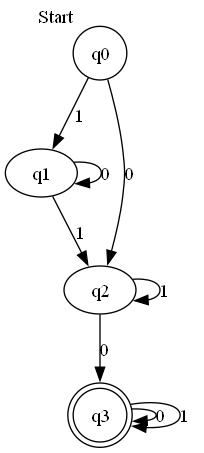
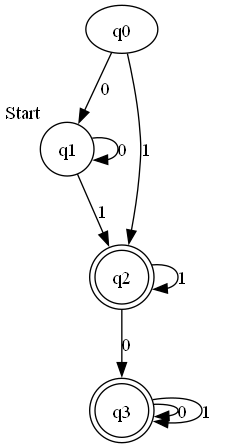
p

diff --git a/static/js/edit_nfa.js b/static/js/edit_nfa.js
@@ -1,0 +1,59 @@
+// Ambil nilai variabel dari nfa.js
+import { nfa as originalNfa, startStateNFA as originalStartStates, acceptingStatesNFA as originalAcceptingStates } from '../js/no5/nfa.js';
+
+async function fetchNfaValues() {
+    try {
+        // Gunakan nilai yang diimpor dari nfa.js
+        const nfa = originalNfa;
+        const startStateNFA = originalStartStates;
+        const acceptingStatesNFA = originalAcceptingStates;
+
+        // Set nilai variabel ke dalam elemen input
+        document.getElementById('nfa').value = JSON.stringify(nfa);
+        document.getElementById('startStates').value = JSON.stringify(startStateNFA);
+        document.getElementById('acceptingStates').value = JSON.stringify(acceptingStatesNFA);
+    } catch (error) {
+        console.error('Terjadi kesalahan:', error);
+    }
+}
+
+document.addEventListener('DOMContentLoaded', () => {
+    // Panggil fungsi fetchNfaValues saat DOM telah dimuat
+    fetchNfaValues();
+
+    // Tangani peristiwa klik pada tombol "Simpan"
+    document.getElementById('saveButton').addEventListener('click', () => {
+        // Mengambil nilai dari inputan pengguna
+        const nfaInput = JSON.parse(document.getElementById('nfa').value);
+        const startStatesInput = JSON.parse(document.getElementById('startStates').value);
+        const acceptingStatesInput = JSON.parse(document.getElementById('acceptingStates').value);
+
+        // Simpan inputan pengguna ke dalam variabel yang sesuai di dalam file nfa.js
+        //updateNfaValues(nfaInput, startStatesInput, acceptingStatesInput);
+    });
+});
+
+async function updateNfaValues(nfaInput, startStatesInput, acceptingStatesInput) {
+    try {
+        // Mengirim data ke server
+        const response = await fetch('/update_nfa', {
+            method: 'POST',
+            headers: {
+                'Content-Type': 'application/json'
+            },
+            body: JSON.stringify({ nfa: nfaInput, startStates: startStatesInput, acceptingStates: acceptingStatesInput })
+        });
+
+        if (response.ok) {
+            // Berhasil
+            console.log('Nilai NFA berhasil diperbarui di server.');
+            // Mengarahkan kembali ke halaman index.html setelah menyimpan
+            window.location.href = 'index.html'; // Ganti dengan nama file index.html yang sesuai
+        } else {
+            // Gagal
+            console.error('Gagal memperbarui nilai NFA di server.');
+        }
+    } catch (error) {
+        console.error('Terjadi kesalahan:', error);
+    }
+}

diff --git a/static/js/script.js b/static/js/script.js
@@ -159,13 +159,63 @@ buttons.forEach(button => {
   });
 });
 
-// Ambil tombol "Edit" dengan menggunakan ID atau kelas yang sesuai
-const editButton = document.querySelector('.editButton');
+// Sembunyikan tombol "Edit" secara default
+const editButton1 = document.querySelector('.editButton1');
+const editButton2 = document.querySelector('.editButton2');
+const editButton3 = document.querySelector('.editButton3');
+const editButton4 = document.querySelector('.editButton4');
+
+editButton1.style.display = 'none';
+editButton2.style.display = 'none';
+editButton3.style.display = 'none';
+editButton4.style.display = 'none';
+
+// Tambahkan event listener ke tombol "DFA"
+document.getElementById('dfaBtn').addEventListener('click', function() {
+  // Menampilkan tombol "Edit" ketika tombol "DFA" diklik
+  editButton1.style.display = 'block';
+  editButton2.style.display = 'none';
+  editButton3.style.display = 'none';
+  editButton4.style.display = 'none';
+
+});
+
+// Tambahkan event listener ke tombol "NFA"
+document.getElementById('nfaBtn').addEventListener('click', function() {
+  // Menyembunyikan tombol "Edit" ketika tombol "NFA" diklik
+  editButton1.style.display = 'none';
+  editButton2.style.display = 'block';
+  editButton3.style.display = 'none';
+  editButton4.style.display = 'none';
+});
+
+// Tambahkan event listener ke tombol "e-NFA"
+document.getElementById('enfaBtn').addEventListener('click', function() {
+  // Menyembunyikan tombol "Edit" ketika tombol "e-NFA" diklik
+  editButton1.style.display = 'none';
+  editButton2.style.display = 'none';
+  editButton3.style.display = 'block';
+  editButton4.style.display = 'none';
+});
+
+// Tambahkan event listener ke tombol "Regex"
+document.getElementById('regexBtn').addEventListener('click', function() {
+  // Menyembunyikan tombol "Edit" ketika tombol "Regex" diklik
+  editButton1.style.display = 'none';
+  editButton2.style.display = 'none';
+  editButton3.style.display = 'none';
+  editButton4.style.display = 'block';
+});
 
 // Tambahkan event listener untuk menangkap klik pada tombol "Edit"
-editButton.addEventListener('click', () => {
+editButton1.addEventListener('click', () => {
   // Pindahkan halaman ke laman edit DFA
   window.location.href = 'edit_dfa'; // Ganti dengan URL laman edit DFA yang sesuai
+});
+
+editButton2.addEventListener('click', () => {
+  // Pindahkan halaman ke laman edit DFA
+  window.location.href = 'edit_nfa'; // Ganti dengan URL laman edit DFA yang sesuai
 });
 
 

diff --git a/templates/edit_nfa.html b/templates/edit_nfa.html
@@ -1,0 +1,25 @@
+<!DOCTYPE html>
+<html lang="en">
+<head>
+  <meta charset="UTF-8">
+  <meta name="viewport" content="width=device-width, initial-scale=1.0">
+  <title>Edit NFA</title>
+</head>
+<body>
+  <h1>Edit NFA</h1>
+  <form action="/update_nfa" id="editNfaForm" method="post">
+    <label for="transitions">Transitions:</label><br>
+    <!-- Menampilkan nilai variabel nfa -->
+    <input type="text" id="nfa" name="nfa"><br>
+    <label for="startStates">Start States:</label><br>
+    <!-- Menampilkan nilai variabel startStates -->
+    <input type="text" id="startStates" name="startStates"><br>
+    <label for="acceptingStates">Accepting States:</label><br>
+    <!-- Menampilkan nilai variabel acceptingStates -->
+    <input type="text" id="acceptingStates" name="acceptingStates"><br><br>
+    <button type="submit" id="saveButton">Save</button>
+  </form>
+
+  <script src="../static/js/edit_nfa.js" type="module"></script>
+</body>
+</html>

diff --git a/templates/index.html b/templates/index.html
@@ -34,10 +34,12 @@
       <img id="nfaImage" class="image" src="../static/img/nfa.png" alt="NFA Image">
       <img id="enfaImage" class="image" src="../static/img/enfa.png" alt="e-NFA Image">
       <img id="regexImage" class="image" src="../static/img/regex.png" alt="Regex Image">
-        <!-- Button for editing -->
-  <button class="editButton">Edit</button>
     </div>
-
+    <!-- Button for editing -->
+    <button class="editButton1">Edit</button>
+    <button class="editButton2">Edit2</button>
+    <button class="editButton3">Edit3</button>
+    <button class="editButton4">Edit4</button>
     <div id="result">
       <!-- Add more images for other types if needed -->
       <div id="resultText"></div>

diff --git a/static/js/no5/nfa.js b/static/js/no5/nfa.js
@@ -1,13 +1,4 @@
-// nfa.js
-
-const nfa = {
-  q0: { '1': ['q0', 'q1'] },
-  q1: { '0': ['q2'], '1': ['q1'] },
-  q2: { '1': ['q3'] },
-  q3: { '0': ['q3'] }
-};
-
-const startStateNFA = 'q0'; // Menambahkan start state
-const acceptingStatesNFA = ['q2']; // Menambahkan accepting state(s)
-
+const nfa = {'q0': {'1': ['q0', 'q1']}, 'q1': {'0': ['q2'], '1': ['q1']}, 'q2': {'1': ['q3']}, 'q3': {'0': ['q3']}};
+const startStateNFA = "q1";
+const acceptingStatesNFA = ['q3'];
 export { nfa, startStateNFA, acceptingStatesNFA };

diff --git a/static/js/no5/dfa.js b/static/js/no5/dfa.js
@@ -1,4 +1,4 @@
-const dfa = {'q0': {'0': 'q2', '1': 'q1'}, 'q1': {'0': 'q1', '1': 'q2'}, 'q2': {'0': 'q3', '1': 'q2'}, 'q3': {'0': 'q3', '1': 'q3'}};
-const startState = 'q0';
-const acceptingStates = ['q3'];
+const dfa = {'q0': {'0': 'q1', '1': 'q2'}, 'q1': {'0': 'q1', '1': 'q2'}, 'q2': {'0': 'q3', '1': 'q2'}, 'q3': {'0': 'q3', '1': 'q3'}};
+const startState = 'q1';
+const acceptingStates = ['q2', 'q3'];
 export { dfa, startState, acceptingStates };

diff --git a/static/js/no5/enfa.js b/static/js/no5/enfa.js
@@ -1,8 +1,8 @@
 const enfa = {
-  q0: { '0': ['q0', 'q1'], 'ε': ['q1'] },
-  q1: { '1': ['q2'], 'ε': ['q2'] },
-  q2: { 'ε': ['q2', 'q3'] },
-  q3: { 'ε': [] }
+  q0: { '0': ['q0', 'q1'], 'e': ['q1'] },
+  q1: { '1': ['q2'], 'e': ['q2'] },
+  q2: { 'e': ['q2', 'q3'] },
+  q3: { 'e': [] }
 };
 
 const startStateENFA = 'q0'; // Menambahkan start state

diff --git a/app.py b/app.py
@@ -46,7 +46,7 @@ def update_dfa():
         accepting_states = eval(data.get('acceptingStates'))
         logging.debug(f"dfa: {accepting_states}")
 
-        # Tulis nilai-nilai yang diperbarui ke dalam file dfa.js
+       
         # Tulis nilai-nilai yang diperbarui ke dalam file dfa.js
         with open('static/js/no5/dfa.js', 'w') as f:
             f.write('const dfa = ' + str(dfa) + ';\n')  # Ubah objek kamus menjadi string sebelum menggabungkannya
@@ -77,6 +77,69 @@ def update_dfa():
         return render_template('index.html')
     except Exception as e:
         return str(e), 500
+
+@app.route('/edit_nfa')
+def edit_nfa():
+    return render_template('edit_nfa.html')
+
+# Endpoint untuk menampilkan nilai NFA
+@app.route('/get_nfa', methods=['GET'])
+def get_nfa():
+    try:
+        # Baca nilai-nilai saat ini dari file nfa.js
+        with open('static/js/no5/nfa.js', 'r') as f:
+            current_data = f.read()
+        
+        # Ubah data saat ini menjadi objek JSON
+        current_values = json.loads(current_data.strip().strip(';'))
+        
+        return jsonify(current_values), 200
+    except Exception as e:
+        return str(e), 500
+
+# Endpoint untuk memperbarui nilai NFA
+@app.route('/update_nfa', methods=['POST'])
+def update_nfa():
+    try:
+        # Ambil data JSON dari permintaan POST
+        data = request.form
+        nfa = eval(request.form.get('nfa'))
+        logging.debug(f"nfa: {nfa}")
+        start_states = data.get('startStates')
+        logging.debug(f"start states: {start_states}")
+        accepting_states = eval(data.get('acceptingStates'))
+        logging.debug(f"accepting states: {accepting_states}")
+
+        # Tulis nilai-nilai yang diperbarui ke dalam file nfa.js
+        with open('static/js/no5/nfa.js', 'w') as f:
+            f.write('const nfa = ' + str(nfa) + ';\n')  # Ubah objek kamus menjadi string sebelum menggabungkannya
+            f.write('const startStateNFA = ' + str(start_states) + ';\n')
+            f.write('const acceptingStatesNFA = ' + str(accepting_states) + ';\n')  # Ubah objek daftar menjadi string sebelum menggabungkannya
+            f.write('export { nfa, startStateNFA, acceptingStatesNFA };')
+        
+        dot = graphviz.Digraph()
+        
+        # Add nodes
+        for state in nfa.keys():
+            if state in start_states:
+                dot.node(state, shape='circle', xlabel='Start')
+            elif state in accepting_states:
+                dot.node(state, shape='doublecircle')
+            else:
+                dot.node(state)
+        
+        # Add edges
+        for state, transitions in nfa.items():
+            for symbol, next_states in transitions.items():
+                for next_state in next_states:
+                    dot.edge(state, next_state, label=symbol)
+        
+        dot.render("static/img/nfa", format='png', cleanup=True)
+
+        return render_template('index.html')
+    except Exception as e:
+        return str(e), 500
+
 
 if __name__ == '__main__':
     logging.basicConfig(level=logging.DEBUG)  # Aktifkan logging debug
